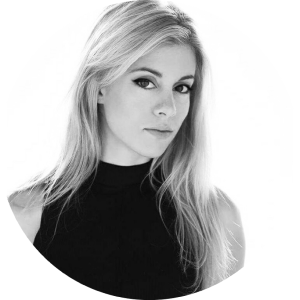
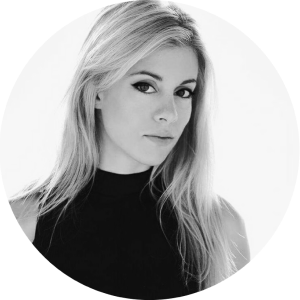
fix: making the website more responsive

Changed region(s): [[0.03, 0.0, 0.84, 0.99], [0.18, 0.75, 0.21, 0.78], [0.09, 0.78, 0.12, 0.81]]

diff --git a/src/Components/components.scss b/src/Components/components.scss
@@ -609,12 +609,22 @@ $lightBlueColor: #66DAE9;
     
 }
 
-.Token-Section{
+.token-parent-container {
+    @media (max-width: 768px) {
+        padding-left: 0px;
+        padding-right: 0px;
+    }
+}
+
+.token-section{
     position: relative;
-    background-color: #000;    
-    background: linear-gradient(0deg, rgba(0, 0, 0, 0.75) 0%, rgba(0, 0, 0, 0.8) 45%, rgba(0, 0, 0, 0.9) 100%);
+    background-color: #000;
+    background: linear-gradient(0deg, rgba(0,0,0,0.90) 0%, rgba(0,0,0,0.88) 100%);
     text-align: left;
     padding: 160px 60px;
+    @media (max-width: 768px) {
+        padding: 160px 12px;
+    }
     @include media("retina", "<minWidth"){
         padding-bottom: 50px;
     }
@@ -631,15 +641,14 @@ $lightBlueColor: #66DAE9;
     position: absolute;
     top: 159px;
     right: 220px;    
-    background: linear-gradient(0deg, rgba(0, 0, 0, 0.75) 0%, rgba(0, 0, 0, 0.8) 45%, rgba(0, 0, 0, 0.9) 100%);
     background-image: url(../img/tokenSection/commercialtrans.svg);
     background-position: center;
-    background-size: cover;
+    background-size: contain;
     background-repeat: no-repeat;
-    width: 50%;
+    width: 40%;
     height: 90%;
     z-index: 0;
-    opacity: 0.75;
+    opacity: 0.45;
     @media (max-width: 768px) {
         top: -50px;
         right: 35px; 

diff --git a/src/Components/TokenUtiltySection/slider.js b/src/Components/TokenUtiltySection/slider.js
@@ -1,8 +1,8 @@
-import React from "react";
+import React, { useRef } from "react";
 import "slick-carousel/slick/slick.css";
 import "slick-carousel/slick/slick-theme.css";
 import Slider from "react-slick";
-import { Row } from "react-bootstrap";
+import { Col, Container, Row } from "react-bootstrap";
 import nextImage from "../../img/tokenSection/CaretRight.svg";
 import prevImage from "../../img/tokenSection/CaretLeft.svg";
 import clsx from "clsx";
@@ -45,18 +45,16 @@ const sliderItem = [
 ]
 
 
-const TokenUtilitySlider = (props) => {
-    return (<div>
-        <div className="token-section-image"></div>
-        <Slider {...settings}>
-            {sliderItem.map((item) =>
-                <div key={item.title}>
-                    <Item title={item.title} desc={item.desc} />
-                </div>
-            )}
-        </Slider>
-    </div>);
-}
+const TokenUtilitySlider = (props) => (<div>
+    <div className="token-section-image"></div>
+    <Slider {...settings}>
+        {sliderItem.map((item) =>
+            <div key={item.title}>
+                <Item title={item.title} desc={item.desc} />
+            </div>
+        )}
+    </Slider>
+</div>);
 
 
 const Item = (props) => {

diff --git a/src/Components/TokenUtiltySection/index.js b/src/Components/TokenUtiltySection/index.js
@@ -6,11 +6,11 @@ import '../components.scss';
 
 export default function TokenUtlitySection() {
 
-    return (<Container className="justify-content-md-center Token-Section" fluid>
+    return (<Container className="justify-content-md-center token-section" fluid>
         <Row>
             <h1 className="title">Token Utility</h1>
         </Row>
-        <Container>
+        <Container className="token-parent-container">
             <TokenUtilitySlider />
         </Container>
     </Container>)

diff --git a/src/Components/MapSection/index.js b/src/Components/MapSection/index.js
@@ -7,7 +7,9 @@ import TeamSection from './TeamSection';
 const MapSection = () => (
   <div className="partner-part">
     <HeaderCard />
-    <img src={partner} alt="map" className="map" />
+    <div className="map">
+      <img src={partner} alt="map" />
+    </div>
     <TeamSection />
   </div>
 );
